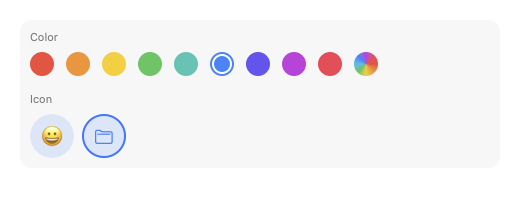
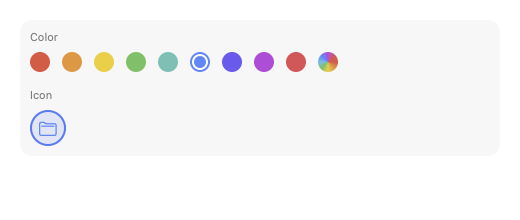
feat: open one mixed catalog popover on the row
The compact row shows a single icon button. Its popover is the mixed
emoji and SF Symbol catalog, not separate mode lists.

Changed region(s): [[0.0615, 0.2182, 0.7385, 0.3545], [0.0308, 0.4091, 0.2462, 0.7364], [0.0615, 0.2182, 0.0923, 0.2455]]

diff --git a/Sources/IconPickerKit/IconPickerRow.swift b/Sources/IconPickerKit/IconPickerRow.swift
@@ -2,7 +2,8 @@ import SwiftUI
 
 /// A compact color + icon control for forms and edit sheets.
 ///
-/// Color swatches stay inline. Emoji and SF Symbol grids open in popovers.
+/// Color swatches stay inline. The mixed emoji and SF Symbol catalog opens in
+/// one popover.
 public struct IconPickerRow: View {
     @Binding private var icon: String
     @Binding private var color: IconPickerColor
@@ -11,18 +12,12 @@ public struct IconPickerRow: View {
     let allowsCustomColor: Bool
     private let labels: IconPickerLabels
 
-    @State private var showingEmojis = false
-    @State private var showingSymbols = false
+    @State private var showingCatalog = false
     @State private var query = ""
     @State private var debounce = SearchDebounce()
     @State private var origin = ContinuousClock.now
 
-    @ScaledMetric(relativeTo: .title3) private var gridEmojiSize: CGFloat = 22
-    @ScaledMetric(relativeTo: .body) private var gridSymbolSize: CGFloat = 18
-
-    private var isEmojiSelected: Bool {
-        self.icon.isEmoji
-    }
+    @ScaledMetric(relativeTo: .title3) private var cellFont: CGFloat = 18
 
     public init(
         icon: Binding<String>,
@@ -71,78 +66,44 @@ public struct IconPickerRow: View {
                 .foregroundStyle(.secondary)
                 .accessibilityAddTraits(.isHeader)
 
-            HStack(spacing: 8) {
-                self.emojiButton
-                self.symbolButton
-            }
+            self.iconButton
         }
     }
 
-    private var emojiButton: some View {
+    private var iconButton: some View {
         Button {
-            self.showingEmojis = true
+            self.showingCatalog = true
         } label: {
             Group {
-                if self.isEmojiSelected {
+                if self.icon.isEmoji {
                     Text(verbatim: self.icon)
+                        .font(.system(size: 20))
                 } else {
-                    Text(verbatim: "😀")
+                    Image(systemName: self.icon)
+                        .font(.system(size: 16))
+                        .foregroundStyle(self.color.color)
                 }
             }
-            .font(.system(size: 20))
             .frame(
                 width: IconPickerLayout.rowIconButtonSize,
                 height: IconPickerLayout.rowIconButtonSize)
             .background(self.color.color.opacity(0.15))
             .clipShape(Circle())
             .overlay {
-                if self.isEmojiSelected {
-                    Circle()
-                        .strokeBorder(Color.accentColor, lineWidth: 2)
-                }
+                Circle()
+                    .strokeBorder(Color.accentColor, lineWidth: 2)
             }
         }
         .buttonStyle(.plain)
         .iconPickerHover()
-        .help(self.labels.emojis)
-        .accessibilityLabel(self.labels.emojis)
-        .accessibilityAddTraits(self.isEmojiSelected ? .isSelected : [])
-        .popover(isPresented: self.$showingEmojis) {
-            self.emojiPopover
+        .help(self.labels.icon)
+        .accessibilityLabel(self.labels.icon)
+        .popover(isPresented: self.$showingCatalog) {
+            self.catalogPopover
         }
     }
 
-    private var symbolButton: some View {
-        Button {
-            self.showingSymbols = true
-        } label: {
-            Image(systemName: self.isEmojiSelected ? "list.bullet" : self.icon)
-                .font(.system(size: 16))
-                .foregroundStyle(self.color.color)
-                .frame(
-                    width: IconPickerLayout.rowIconButtonSize,
-                    height: IconPickerLayout.rowIconButtonSize)
-                .background(self.color.color.opacity(0.15))
-                .clipShape(Circle())
-                .overlay {
-                    if !self.isEmojiSelected {
-                        Circle()
-                            .strokeBorder(Color.accentColor, lineWidth: 2)
-                    }
-                }
-                .accessibilityHidden(true)
-        }
-        .buttonStyle(.plain)
-        .iconPickerHover()
-        .help(self.labels.symbols)
-        .accessibilityLabel(self.labels.symbols)
-        .accessibilityAddTraits(self.isEmojiSelected ? [] : .isSelected)
-        .popover(isPresented: self.$showingSymbols) {
-            self.symbolPopover
-        }
-    }
-
-    private var emojiPopover: some View {
+    private var catalogPopover: some View {
         VStack(spacing: IconPickerLayout.stackSpacing) {
             IconPickerSearchField(
                 text: self.$query,
@@ -150,49 +111,10 @@ public struct IconPickerRow: View {
                 origin: self.origin,
                 prompt: self.labels.search)
             ScrollView {
-                LazyVGrid(columns: [GridItem(.adaptive(minimum: 36), spacing: 4)], spacing: 4) {
-                    ForEach(EmojiCatalog.search(self.debounce.applied)) { item in
-                        self.emojiCell(item)
-                    }
-                }
-            }
-        }
-        .padding(12)
-        .frame(width: 320, height: 240)
-    }
-
-    private func emojiCell(_ item: EmojiItem) -> some View {
-        let isSelected = self.icon == item.emoji
-        return Button {
-            self.icon = item.emoji
-            self.showingEmojis = false
-        } label: {
-            Text(verbatim: item.emoji)
-                .font(.system(size: self.gridEmojiSize))
-                .frame(width: 32, height: 32)
-                .background {
-                    if isSelected {
-                        RoundedRectangle(cornerRadius: 6)
-                            .fill(Color.accentColor.opacity(0.2))
-                    }
-                }
-        }
-        .buttonStyle(.plain)
-        .accessibilityLabel(item.name)
-        .accessibilityAddTraits(isSelected ? .isSelected : [])
-    }
-
-    private var symbolPopover: some View {
-        VStack(spacing: IconPickerLayout.stackSpacing) {
-            IconPickerSearchField(
-                text: self.$query,
-                debounce: self.$debounce,
-                origin: self.origin,
-                prompt: self.labels.search)
-            ScrollView {
-                LazyVGrid(columns: [GridItem(.adaptive(minimum: 40), spacing: 6)], spacing: 6) {
-                    ForEach(SymbolCatalog.search(self.debounce.applied, in: self.symbols), id: \.self) { symbol in
-                        self.symbolCell(symbol)
+                LazyVStack(alignment: .leading, spacing: IconPickerLayout.stackSpacing) {
+                    ForEach(IconPickerRowCatalog.sections(query: self.debounce.applied, symbols: self.symbols))
+                    { section in
+                        self.section(section)
                     }
                 }
             }
@@ -201,25 +123,52 @@ public struct IconPickerRow: View {
         .frame(width: 320, height: 280)
     }
 
-    private func symbolCell(_ symbol: String) -> some View {
-        let isSelected = self.icon == symbol
-        return Button {
-            self.icon = symbol
-            self.showingSymbols = false
-        } label: {
-            Image(systemName: symbol)
-                .font(.system(size: self.gridSymbolSize))
-                .foregroundStyle(isSelected ? self.color.color : .secondary)
-                .frame(width: 36, height: 36)
-                .background {
-                    if isSelected {
-                        RoundedRectangle(cornerRadius: 8)
-                            .fill(self.color.color.opacity(0.15))
-                    }
+    private func section(_ section: IconSection) -> some View {
+        VStack(alignment: .leading, spacing: 8) {
+            Text(section.title)
+                .font(.subheadline)
+                .foregroundStyle(.secondary)
+                .accessibilityAddTraits(.isHeader)
+            LazyVGrid(columns: [GridItem(.adaptive(minimum: 36), spacing: 4)], spacing: 4) {
+                ForEach(section.items) { item in
+                    self.cell(item)
                 }
+            }
+        }
+    }
+
+    private func cell(_ item: IconItem) -> some View {
+        let isSelected = self.icon == item.value
+        return Button {
+            self.icon = item.value
+            self.showingCatalog = false
+        } label: {
+            Group {
+                if item.value.isEmoji {
+                    Text(verbatim: item.value)
+                        .font(.system(size: self.cellFont))
+                } else {
+                    Image(systemName: item.value)
+                        .font(.system(size: self.cellFont * 0.8))
+                        .foregroundStyle(isSelected ? self.color.color : .secondary)
+                }
+            }
+            .frame(width: 32, height: 32)
+            .background {
+                if isSelected {
+                    RoundedRectangle(cornerRadius: 6)
+                        .fill(self.color.color.opacity(0.15))
+                }
+            }
         }
         .buttonStyle(.plain)
-        .accessibilityLabel(symbol)
+        .accessibilityLabel(item.name)
         .accessibilityAddTraits(isSelected ? .isSelected : [])
+    }
+}
+
+enum IconPickerRowCatalog {
+    static func sections(query: String, symbols: [String]) -> [IconSection] {
+        IconCatalog.search(query, symbols: symbols)
     }
 }

diff --git a/Tests/IconPickerKitTests/IconPickerKitTests.swift b/Tests/IconPickerKitTests/IconPickerKitTests.swift
@@ -336,6 +336,14 @@ import Testing
     #expect(IconCatalog.sections().allSatisfy { $0.group != .suggestions })
 }
 
+@Test func rowPopoverShowsMixedCatalogNotModeLists() {
+    let sections = IconPickerRowCatalog.sections(query: "", symbols: ["folder", "star"])
+    let values = sections.flatMap(\.items).map(\.value)
+    #expect(values.contains { $0.isEmoji })
+    #expect(values.contains { $0 == "folder" })
+    #expect(sections.count > 1)
+}
+
 @Test func macSearchUsesRoundedBorder() {
     #if os(macOS)
     #expect(IconPickerSearchStyle.usesRoundedBorder)

diff --git a/CHANGELOG.md b/CHANGELOG.md
@@ -23,6 +23,7 @@ All notable changes to IconPickerKit are recorded here. The format follows
 - On Mac, the compact row uses smaller swatches and buttons, help text, and a hover scale that turns off under Reduce Motion.
 - Selected swatch rings use a contrasting stroke instead of white, so yellow and the label swatch stay visible in dark mode.
 - Mac search uses the system rounded-border field. iOS keeps the in-content capsule.
+- `IconPickerRow` opens one mixed emoji and SF Symbol catalog popover.
 - `IconPickerView` shows one meaning-grouped catalog of emoji and SF Symbols. No Emojis/Symbols mode switch.
 - Preview is cell-sized; search sits under the color strip, above the catalog.
 - No hero preview. Opening the picker scrolls the current icon into view.

diff --git a/README.md b/README.md
@@ -3,7 +3,7 @@
 A SwiftUI picker for a tint color plus an emoji or SF Symbol. Bind two values the consumer owns.
 
 - `IconPickerView` — a full picker for an iPhone or iPad sheet or pushed screen.
-- `IconPickerRow` — compact swatches and popovers for a form. On Mac, embed this in the form. Do not present `IconPickerView` in a sheet.
+- `IconPickerRow` — compact swatches and one catalog popover for a form. On Mac, embed this in the form. Do not present `IconPickerView` in a sheet.
 
 ## Preview
 
